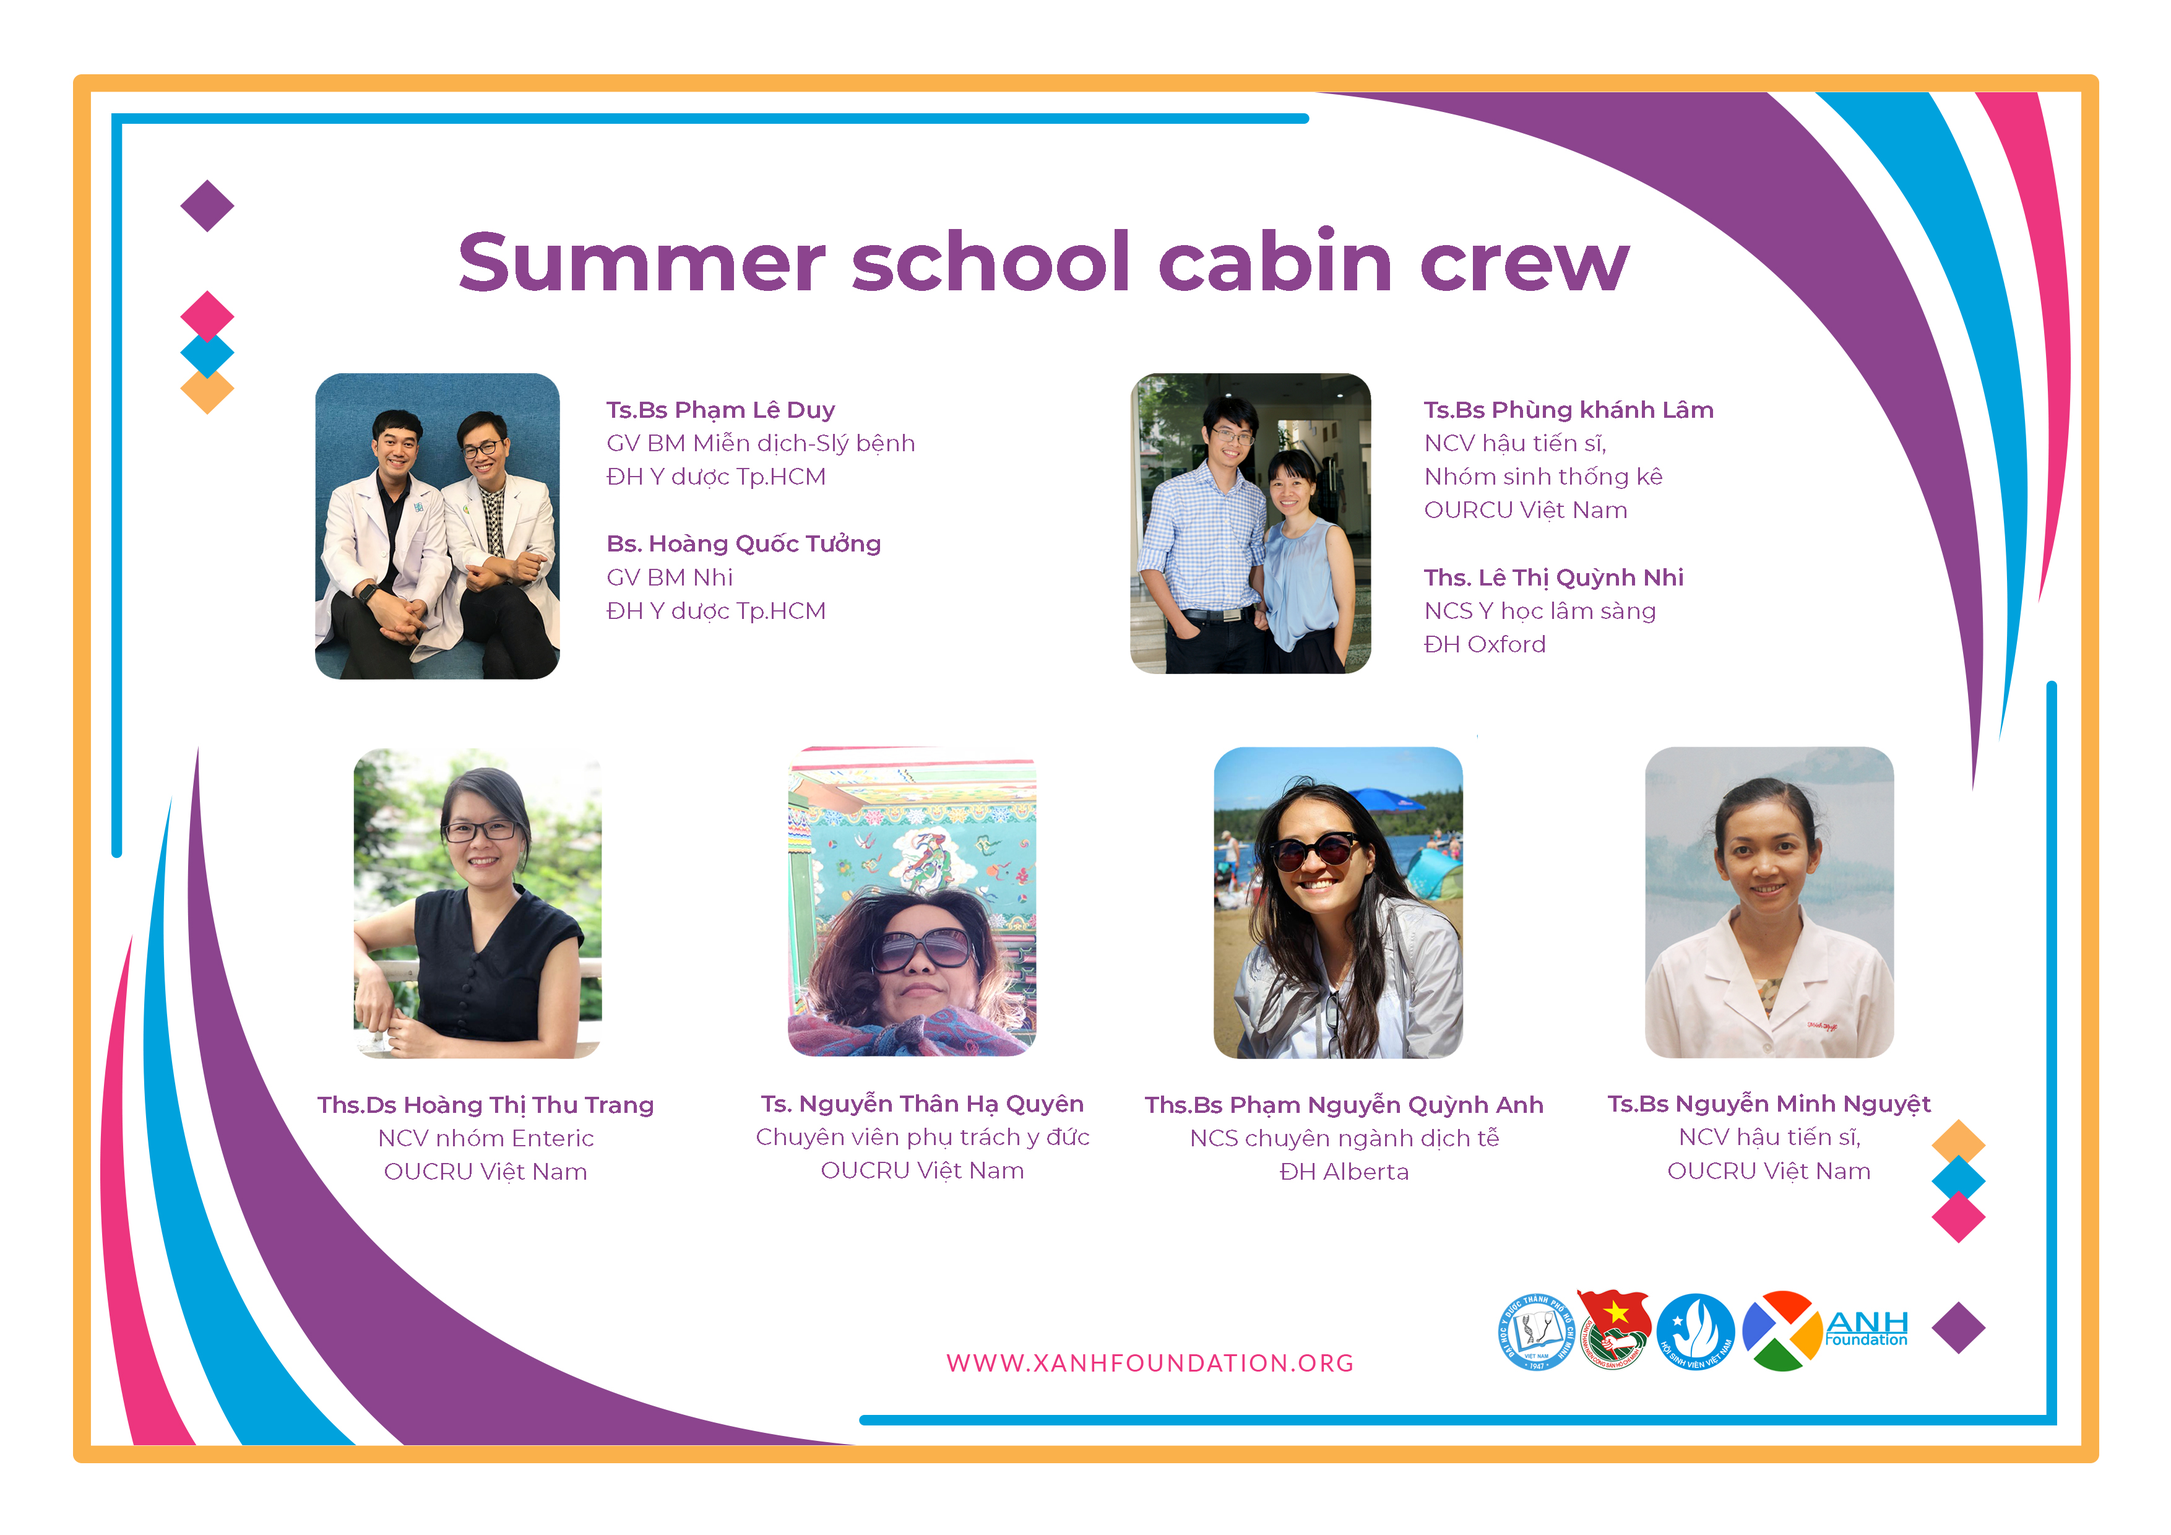
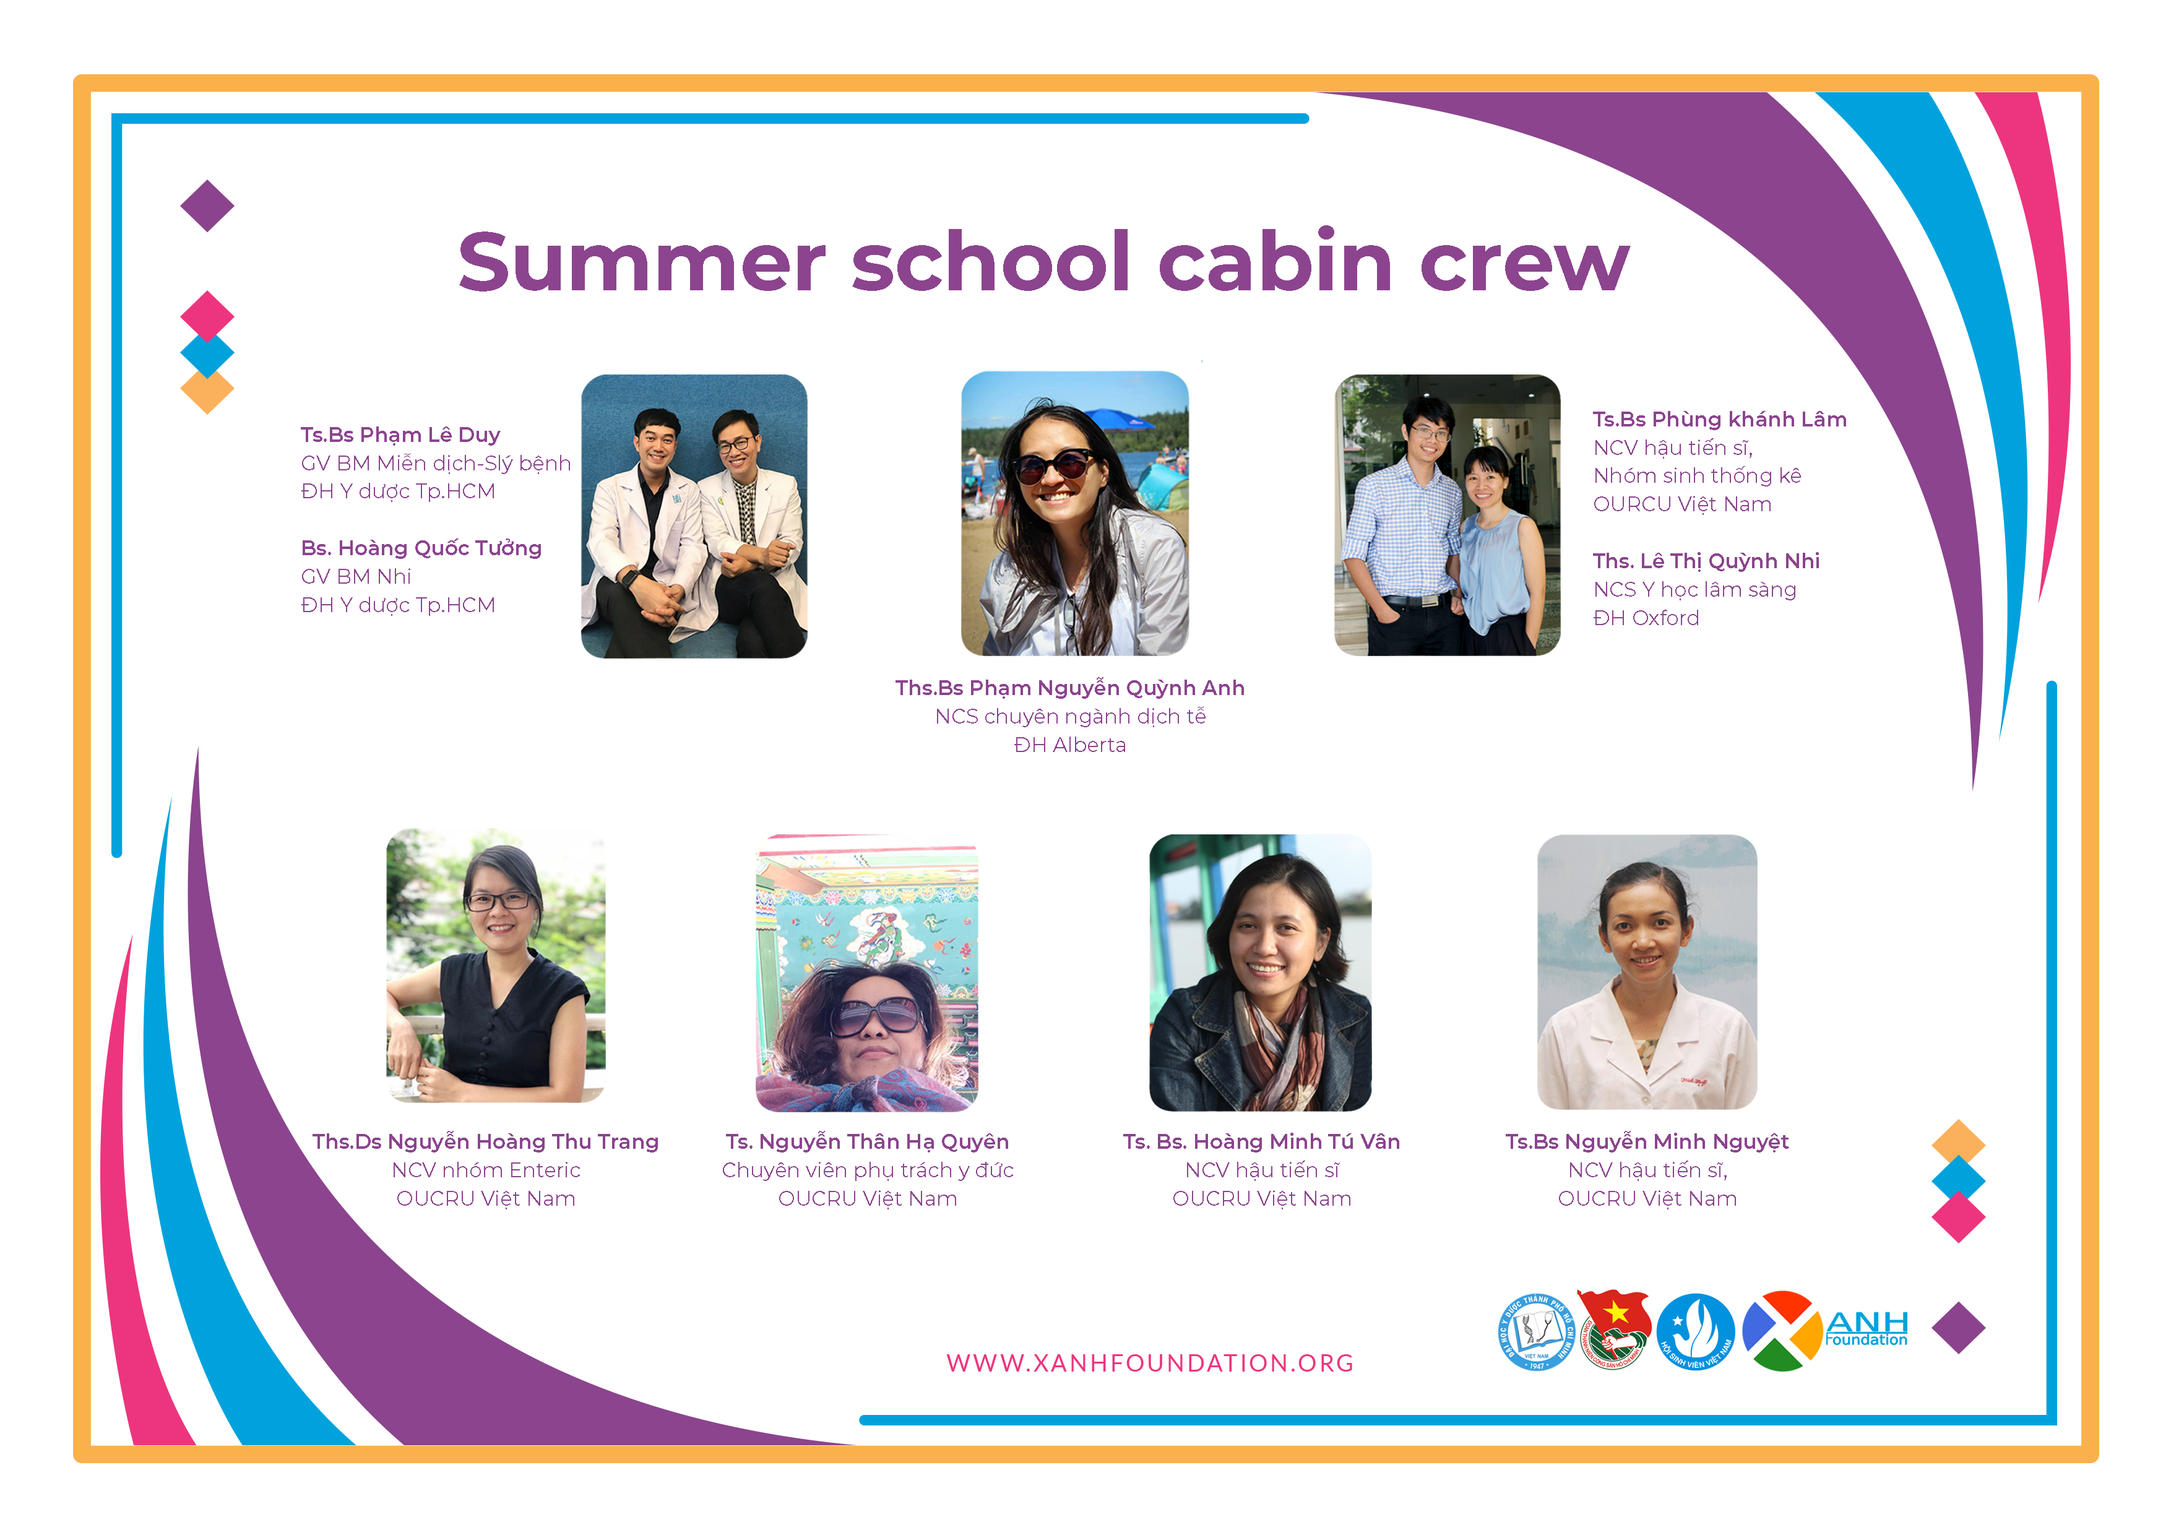
update and correction

Changed region(s): [[0.3418, 0.2173, 0.87, 0.7762], [0.1243, 0.2173, 0.4039, 0.7762]]

diff --git a/_includes/about.html b/_includes/about.html
@@ -13,18 +13,18 @@
             </div>
             <div class="row">
                 <div class="col-sm-6 text-justify">
-                    <p>Xanh Foundation hiện diện nhằm cải thiện sức khoẻ con người thông qua việc hỗ trợ các hoạt động nghiên cứu khoa học về sức khoẻ con người.
-                    Chúng tôi là nhóm các nhà khoa học trẻ, hoạt động phi lợi nhuận và độc lập. Chúng tôi hỗ trợ nhân viên y tế và sinh viên nhóm ngành y sinh trên bước đường khởi đầu sự nghiệp khoa học, nâng cao chất lượng nghiên cứu y sinh học và biến bằng chứng từ nghiên cứu thành thực hành hữu ích phục vụ sức khoẻ con người.</p>
-                    <p>Xanh Foundation hướng đến việc phát huy năng lực tìm tòi và nghiên cứu phục vụ sức khoẻ con người.
-                    Thông qua các giá trị:
-                    -	Sáng tạo 
-                    -	Chia sẻ 
-                    -	Trung thực</p> 
-                    <p>Khi “nghiên cứu khoa học” được xem là việc đi tìm câu trả lời cho một câu hỏi, thì vấn đề đặt ra là “Câu hỏi là gì?”. Việc khuyến khích người trẻ và người làm về lĩnh vực y tế đặt câu hỏi về các thực hành lâm sàng và thực hành chăm sóc sức khoẻ con người nên được ưu tiên. Xanh Foundation muốn cùng góp phần tạo nền móng xây dựng con đường nghiên cứu vững chắc trong lĩnh vực chăm sóc sức khoẻ con người 
-</p>
+                    <p>Chúng tôi là nhóm các nhà khoa học trẻ, hoạt động độc lập, nhằm hướng đến việc khuyến khích và tạo điều kiện cho thanh niên đang học tập và làm việc trong lĩnh vực sức khỏe gắn kết với các hoạt động nghiên cứu khoa học.</p>
+                    <p>Khác với cách đào tạo kiến thức sách vở và xa rời thực tế cụ thể tại Việt Nam vốn đã cho thấy sự thiếu hiệu quả trong việc thu hút thanh niên tham gia các hoạt động nghiên cứu khoa học, chúng tôi đưa ra giải pháp tập trung vào cả 4 nhóm tác động: "động lực", "kiến thức", "kỹ năng", và "hành động":</p>
+                    <p>- Về "Động lực": chúng tôi cho thanh niên thấy tầm quan trọng và sự gần gũi của nghiên cứu khoa học, cũng như tính khả thi của việc thực hiện nghiên cứu khoa học tại Việt Nam.</p>
+                    <p>- Về "Kiến thức": chúng tôi kết nối với các nhà khoa học trẻ để cung cấp các kiến thức cập nhật và có tính ứng dụng cao, cùng những kinh nghiệm thực tế cho các bạn trẻ.</p>
+                    <p>- Về "Kỹ năng": chúng tôi kết nối với các nhà khoa học trẻ để cung cấp các kỹ năng cần thiết để thực hiện các nghiên cứu có tính khoa học cao và phù hợp với điều kiện/hoàn cảnh tại Việt Nam.</p>
+                    <p>- Về "Hành động": các bạn trẻ tham gia các hoạt động của chúng tôi được trực tiếp tham gia các hoạt động nghiên cứu khoa học nhằm giải quyết các vấn đề thường gặp trong cộng đồng.</p>
+                    <p>Đồng thời, chúng tôi chủ trương kết nối khoa học với công chúng thông qua tăng cường trao đổi, đối thoại giữa các nhà khoa học và công chúng; từ đó góp phần tạo ra xã hội ủng hộ, trân trọng và biết tận dụng sản phẩm/thành quả từ nghiên cứu khoa học.</p>
                 </div>
                 <div class="col-sm-6 text-justify">
-                  <p>Xanh Foundation aims to improve community health through supporting scientific research activities involving human health.</p>
+                  <p>We are a group of young scientists working independently, aim to encourage and create an environment for young healthcare personnel to engage research.</p>
+                  <p>Different to the traditional learning approach which is impractical and ineffective in attracting young people to participate research activities in Vietnam, we use an approach that focuses on all 4 aspects: "motivation", "knowledge", "skill", and "action": </p>
+                  <p>We also connect science and public by improving communication between scientists and general public, in order to create a society that supports, appreciates and utilise research products.</p>
                   </div>
             </div>
         </div>

diff --git a/note/_posts/2018-06-08-Toạ đàm Khoa học và công chúng- vì ta cần có nhau.md b/note/_posts/2018-06-08-Toạ đàm Khoa học và công chúng- vì ta cần có nhau.md
@@ -4,13 +4,17 @@ title: Toạ đàm Khoa học và công chúng "Vì ta cần có nhau"
 date: 2018-06-08
 author: Phùng Khánh Lâm
 category: khoahoc-congchung
+image_sliders:
+  - toadamKHCC_slider
 ---
+
+{% include slider.html selector="toadamKHCC_slider" %}
 
 Tối ngày 20/05/2018, tại Saigon Innovation Hub, Xanh Foundation đã tổ chức buổi toạ đàm Khoa học và công chúng: vì ta cần có nhau. Buổi toạ đàm có sự tham gia của gần 40 người, chủ yếu làm việc trong lĩnh vực sức khoẻ. 
 
-Tại buổi toạ đàm, TS Giang Thuý Minh (Đại học Hoa Sen) đã giới thiệu về các ngành khoa học hiện nay cùng những tác động tích cực mà khoa học mang lại cho cuộc sống hàng ngày của mỗi chúng ta, đặc biệt là giúp con người đẩy lùi sự sợ hãi trước những điều mình chưa biết. Diễn giả Minh cũng giới thiệu về tổ chức Vietnam Journal of Science (VJS) chuyên hoạt động trong lĩnh vực chuyển tải thông tin khoa học đến với công chúng thông qua ngôn ngữ đơn giản và dễ hiểu.
+Tại buổi toạ đàm, [TS Giang Thuý Minh](http://www.vjsonline.org/about-us/vjs-core-team) (Đại học Hoa Sen) đã giới thiệu về các ngành khoa học hiện nay cùng những tác động tích cực mà khoa học mang lại cho cuộc sống hàng ngày của mỗi chúng ta, đặc biệt là giúp con người đẩy lùi sự sợ hãi trước những điều mình chưa biết. Diễn giả Minh cũng giới thiệu về tổ chức [Vietnam Journal of Science (VJS)](http://www.vjsonline.org) chuyên hoạt động trong lĩnh vực chuyển tải thông tin khoa học đến với công chúng thông qua ngôn ngữ đơn giản và dễ hiểu.
 
-Ở phần trình bày tiếp theo, diễn giả Phùng Khánh Lâm (Xanh Foundation) đã bàn về tác động của công chúng đối với nghiên cứu khoa học thông qua ba mô hình tương tác giữa công chúng và nghiên cứu khoa học. Ở mô hình truyền thống, công chúng chỉ có vai trò tiếp nhận một cách thụ động mà không có ảnh hưởng trực tiếp nào trong quá trình thực hiện nghiên cứu khoa học. Tuy nhiên với mô hình gây quỹ cộng đồng (crowdfunding), công chúng đã có thể tác động trực tiếp đến việc thực hiện nghiên cứu khoa học qua việc hỗ trợ kinh phí thực hiện nghiên cứu. Ở đây, nhà nghiên cứu buộc phải lựa chọn những chủ đề nghiên cứu phù hợp, đồng thời chủ động tương tác với công chúng và làm mọi cách để công chúng hiểu và ủng hộ cho dự án nghiên cứu của mình. Một mô hình khác là mô hình công dân khoa học (citizen science), trong đó công chúng có thể trực tiếp tham gia vào quá trình tiến hành nghiên cứu bằng việc tham gia thu thập số liệu, thậm chí là phân tích số liệu và công bố kết quả. Những mô hình này cho thấy công chúng hoàn toàn có thể có những tác động tích cực trong toàn bộ quá trình thực hiện nghiên cứu khoa học, chứ không chỉ có vai trò tiếp nhận thụ động như trong mô hình truyền thống. Mô hình gây quỹ cộng đồng và mô hình công dân khoa học mở ra cơ hội để vừa thúc đẩy sự phát triển của nghiên cứu khoa học, đồng thời tăng cường sự hiểu biết và hợp tác giữa nhà khoa học và công chúng trong thời đại hiện nay.
+Ở phần trình bày tiếp theo, diễn giả [Phùng Khánh Lâm](http://lampk.github.io/cv/) (Xanh Foundation) đã bàn về tác động của công chúng đối với nghiên cứu khoa học thông qua ba mô hình tương tác giữa công chúng và nghiên cứu khoa học. Ở mô hình truyền thống, công chúng chỉ có vai trò tiếp nhận một cách thụ động mà không có ảnh hưởng trực tiếp nào trong quá trình thực hiện nghiên cứu khoa học. Tuy nhiên với mô hình gây quỹ cộng đồng (crowdfunding), công chúng đã có thể tác động trực tiếp đến việc thực hiện nghiên cứu khoa học qua việc hỗ trợ kinh phí thực hiện nghiên cứu. Ở đây, nhà nghiên cứu buộc phải lựa chọn những chủ đề nghiên cứu phù hợp, đồng thời chủ động tương tác với công chúng và làm mọi cách để công chúng hiểu và ủng hộ cho dự án nghiên cứu của mình. Một mô hình khác là mô hình công dân khoa học (citizen science), trong đó công chúng có thể trực tiếp tham gia vào quá trình tiến hành nghiên cứu bằng việc tham gia thu thập số liệu, thậm chí là phân tích số liệu và công bố kết quả. Những mô hình này cho thấy công chúng hoàn toàn có thể có những tác động tích cực trong toàn bộ quá trình thực hiện nghiên cứu khoa học, chứ không chỉ có vai trò tiếp nhận thụ động như trong mô hình truyền thống. Mô hình gây quỹ cộng đồng và mô hình công dân khoa học mở ra cơ hội để vừa thúc đẩy sự phát triển của nghiên cứu khoa học, đồng thời tăng cường sự hiểu biết và hợp tác giữa nhà khoa học và công chúng trong thời đại hiện nay.
 
 Buổi toạ đàm còn có sự tham gia và phần trình bày của TS Võ Bích Hiển (Đại học Việt Đức) về giải pháp nhằm xây dựng bản đồ bụi tại TP HCM. Đây là một dự án theo mô hình công dân khoa học, theo đó, công chúng có thể trực tiếp tham gia vào việc xây dựng bản đồ bụi này bằng cách đặt cảm biến theo dõi nồng độ bụi tại nhà. Nếu thành công, đây sẽ là cơ sở để xây dựng các công cụ giúp người dân hiểu hơn về tình hình nhiễm bụi, có cách thức để đối phó cũng như giảm thiểu tác động có hại của khói bụi, đồng thời giúp chính quyền đề ra các chính sách để giải quyết vấn đề này tại TP HCM. 
 

diff --git a/note/_posts/2018-06-08-Đào tạo.md b/note/_posts/2018-06-08-Đào tạo.md
@@ -63,7 +63,7 @@ Sau khi hoàn thành khoá học, học viên sẽ được tạo động lực 
 |19:00-22:00   | Chủ đề 2: Ý tưởng nghiên cứu                      | TS. Nguyễn Thân Hạ Quyên       |
 |              |                                                   | TS.BS. Nguyễn Minh Nguyệt      |
 |              |                                                   | TS.BS. Hoàng Minh Tú Vân       |
-|              |                                                   | ThS.DS. Hoàng Thị Thùy Trang   |
+|              |                                                   | ThS.DS. Nguyễn Hoàng Thu Trang |
 |              |                                                   |                                |
 |28/7/2018     | Chủ đề 3: Phát triển ý tưởng nghiên cứu           | TS.BS. Phùng Khánh Lâm         |
 |09:00-12:00   | Kỹ năng tìm và phân tích y văn                    | TS.BS. Phạm Lê Duy             |
@@ -73,7 +73,7 @@ Sau khi hoàn thành khoá học, học viên sẽ được tạo động lực 
 |13:30-17:00   | Bài tập thảo luận                                 |                                |
 |              |                                                   |                                |
 |28/7/2018     | Hoạt động giao lưu                                | TS.BS. Phạm Lê Duy             |
-|19:30-22:00   | Phát triển kỹ năng xây dựng mối quan hệ           | BS. Hoàng Quốc Tưởng           |
+|19:30-22:00   | Phát triển kỹ năng xây dựng mối quan hệ           | BS.CK1 Hoàng Quốc Tưởng        |
 |              | Tranh biện                                        |                                |
 |              |                                                   |                                |
 |29/7/2018     | Chủ đề 5: Các dạng biến số                        | TS.BS. Phùng Khánh Lâm         |
